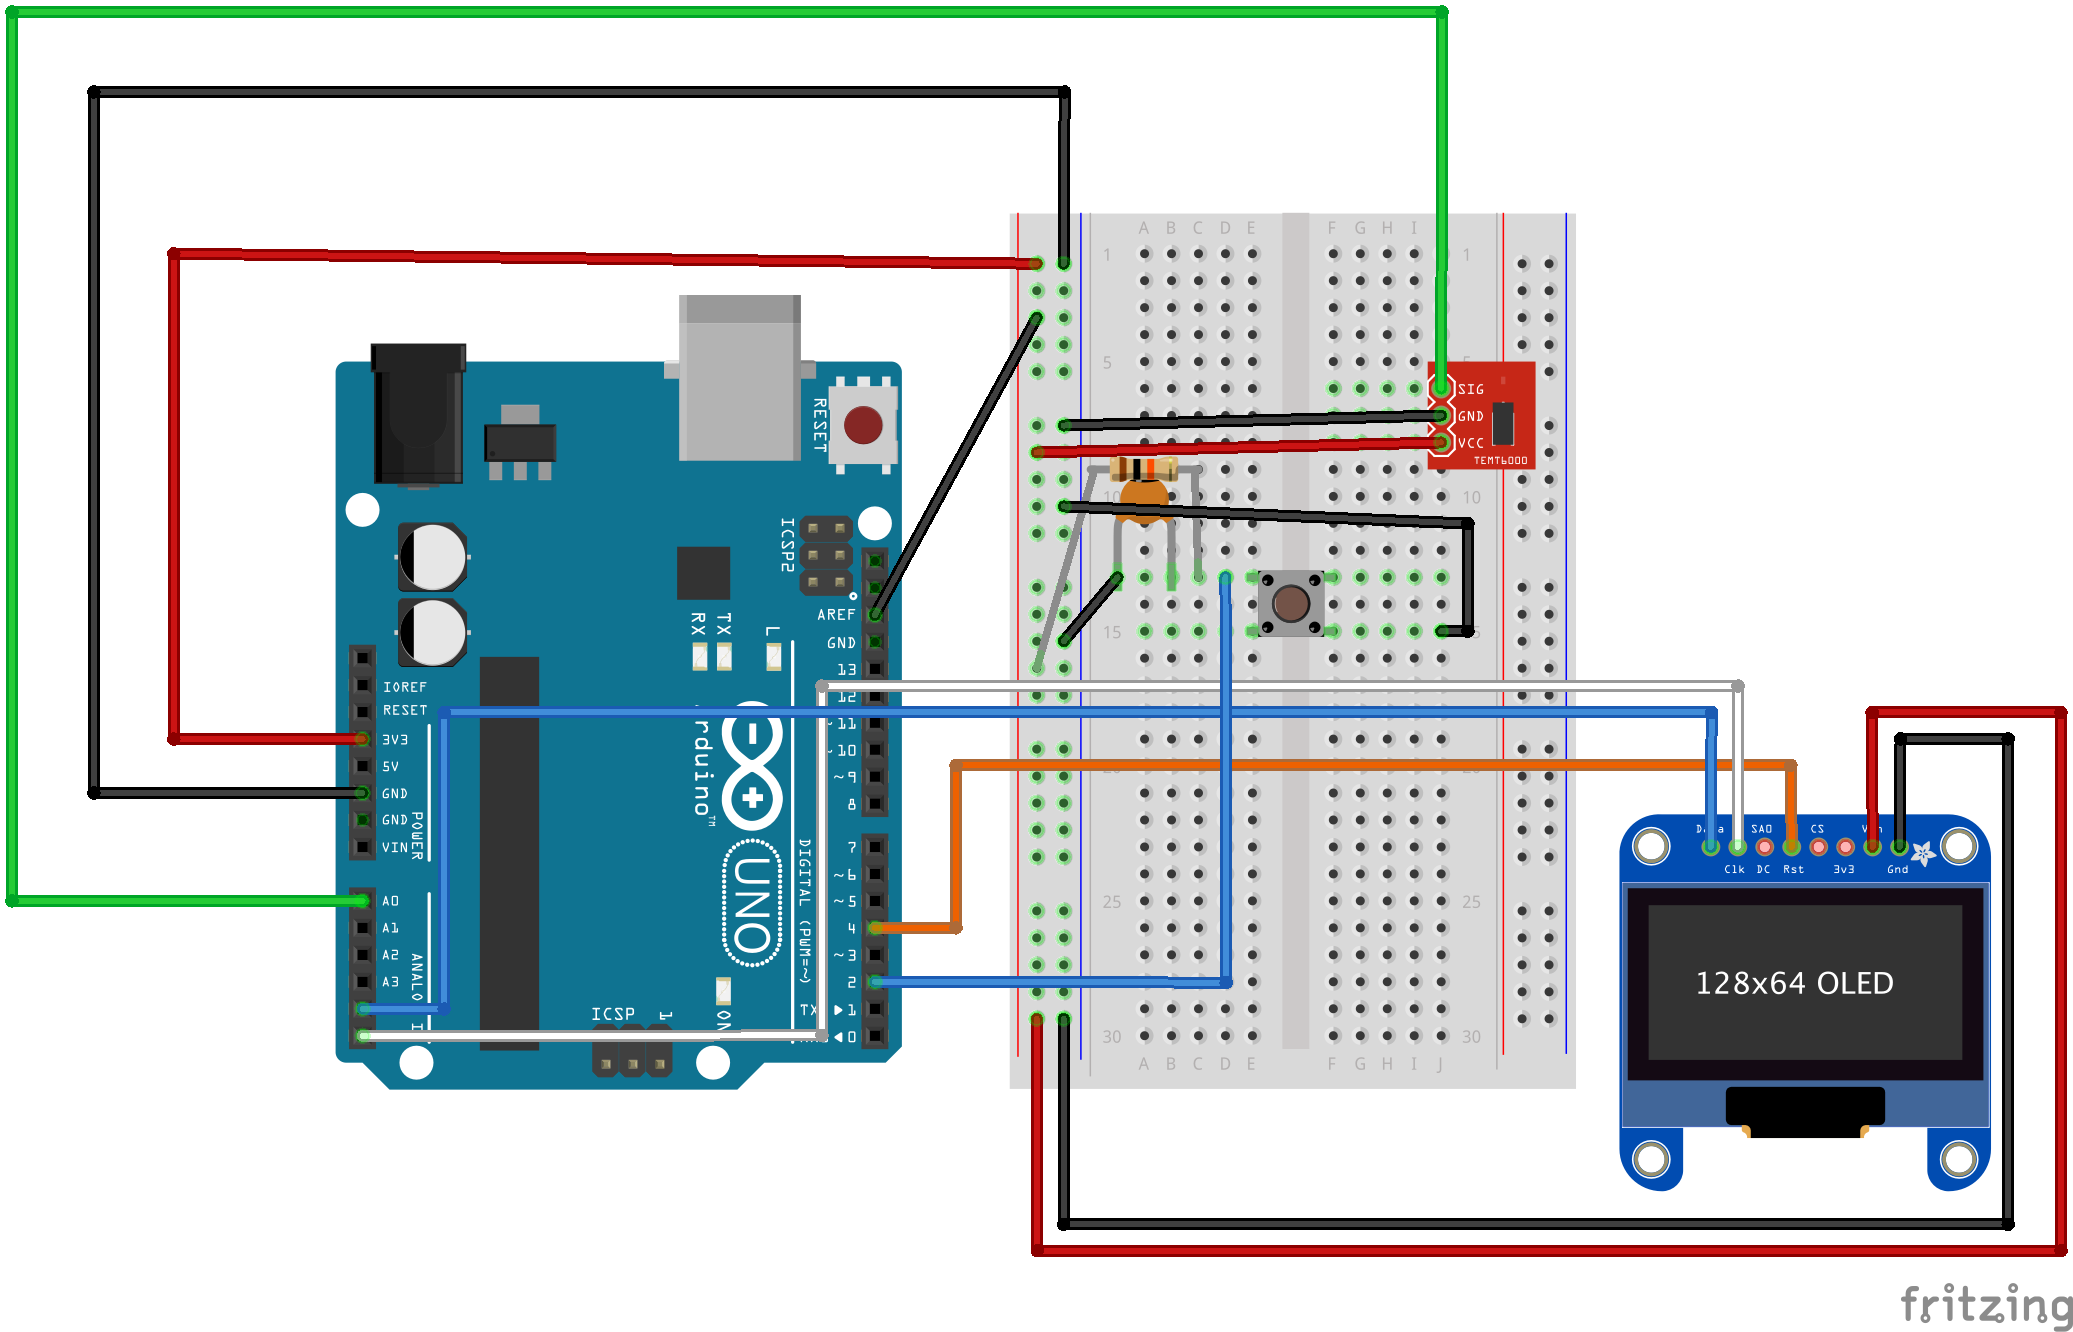
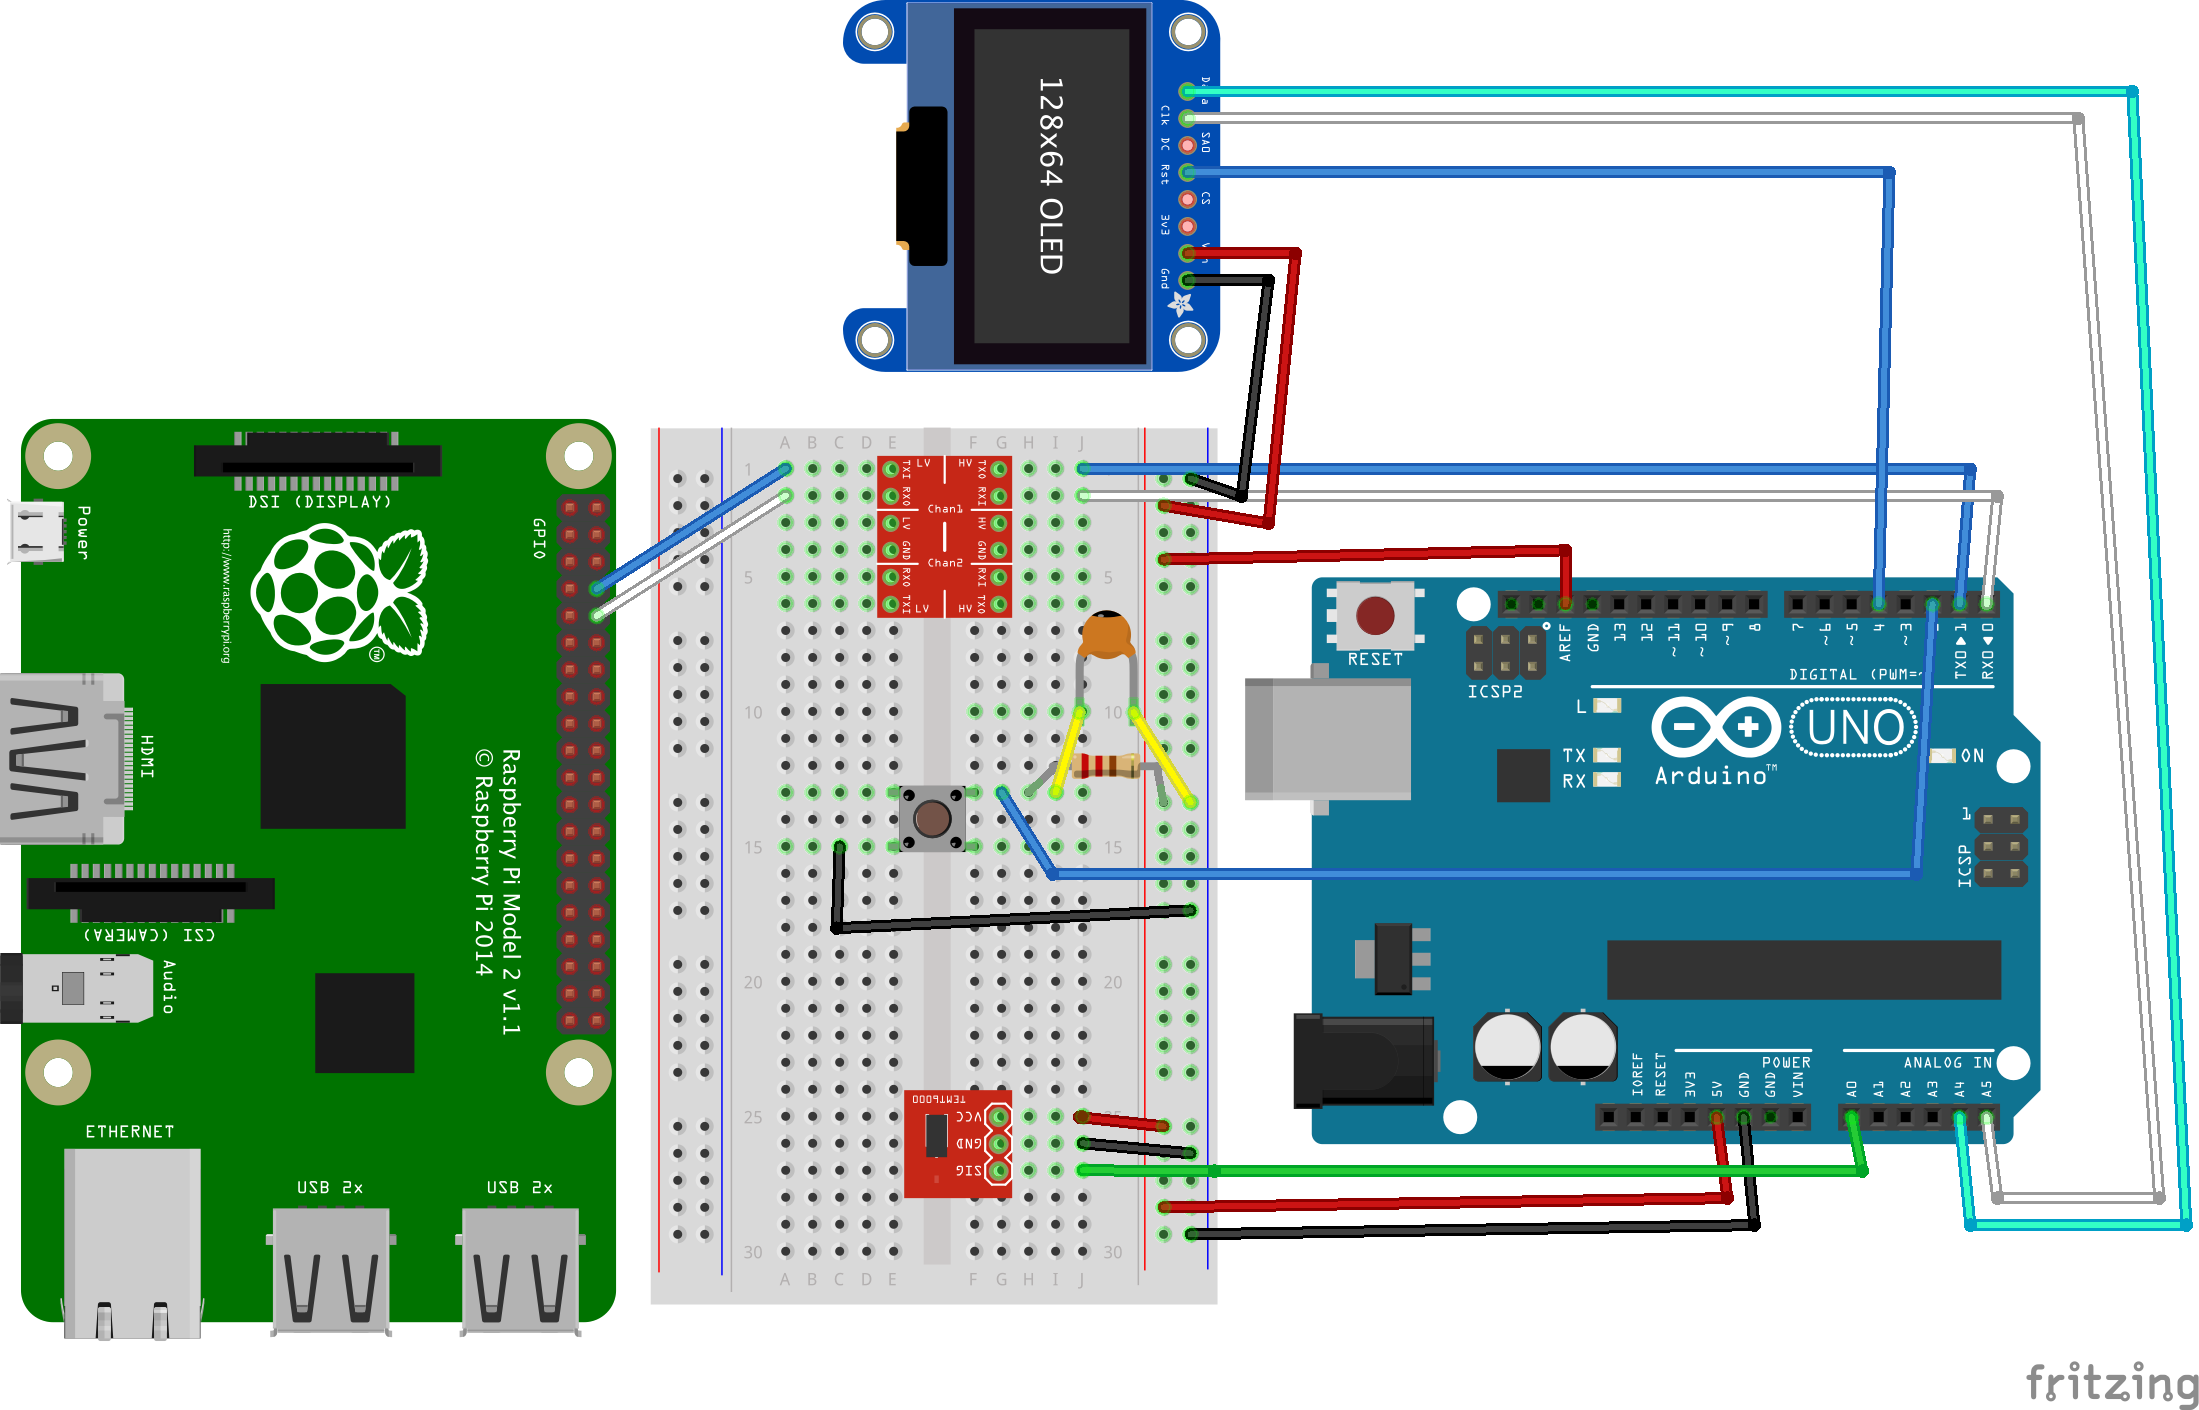
DAQ-1000 Code organization and cleanup

diff --git a/DAQ/include/configReg.h b/DAQ/include/configReg.h
@@ -12,39 +12,130 @@
 #define PRESCALER_INTERRUPT 19
 
 /////////////////////////////////////////
+// module: configADMUX
 //
+// desc: Set registers relating to ADC
+// input pin and whether to left shift
+// conversion.
+//
+// inputs: none
+//
+// outputs: none
+//
+// return: none
+/////////////////////////////////////////
 void configADMUX();
 
 /////////////////////////////////////////
+// module: configADCSRA
 //
+// desc: Configure register to turn
+// ADC on, the autotrigger, and set
+// the ADC clock prescaler.
+//
+// inputs: none
+//
+// outputs: none
+//
+// return: none
+/////////////////////////////////////////
 void configADCSRA();
 
 /////////////////////////////////////////
+// module: configADCSRB
 //
+// desc: Configure Timer1 mode.
+//
+// inputs: none
+//
+// outputs: none
+//
+// return: none
+/////////////////////////////////////////
 void configADCSRB();
 
 /////////////////////////////////////////
+// module: configTCCR1A
 //
+// desc: Has bits to set register of
+// TOP register for Timer1.
+//
+// inputs: none
+//
+// outputs: none
+//
+// return: none
+/////////////////////////////////////////
 void configTCCR1A();
 
 /////////////////////////////////////////
+// module: configTCCR1B
 //
+// desc: Has bits to set register of
+// TOP register for Timer1 and set the
+// Timer1 prescaler.
+//
+// inputs: none
+//
+// outputs: none
+//
+// return: none
+/////////////////////////////////////////
 void configTCCR1B();
 
 /////////////////////////////////////////
+// module: configICR1
 //
+// desc: Set TOP value.
+//
+// inputs: none
+//
+// outputs: none
+//
+// return: none
+/////////////////////////////////////////
 void configICR1();
 
 /////////////////////////////////////////
-///
+// module: configEICRA
+//
+// desc: Configure what kind of edge to
+// trigger an interrupt for Pin 2.
+//
+// inputs: none
+//
+// outputs: none
+//
+// return: none
+/////////////////////////////////////////
 void configEICRA();
 
 /////////////////////////////////////////
+// module: configInterrupts
 //
+// desc: Enable Timer1, ADC, and Pin 2
+// interrupts.
+//
+// inputs: none
+//
+// outputs: none
+//
+// return: none
+/////////////////////////////////////////
 void configInterrupts();
 
 /////////////////////////////////////////
+// module: setupRegisters
 //
+// desc: Function to wrap all the setup functions
+// to be called in setup.
+//
+// inputs: none
+//
+// outputs: none
+//
+// return: none
+/////////////////////////////////////////
 void setupRegisters();
 
 #endif CONFIGREG_H

diff --git a/DAQ/include/oledDisplay.h b/DAQ/include/oledDisplay.h
@@ -10,25 +10,83 @@
 
 #define OLED_RESET 4
 #define DATA_SCALE_FACTOR 4
+#define TEXT_SIZE 1
 
 /////////////////////////////////////////
+// module: resetOLED
 //
+// desc: Set's cursor for OLED and
+// clears display.
+//
+// inputs: x - x coordinate for cursor
+//         y - y cordinate for cursor
+//
+// outputs: none
+//
+// return: none
+/////////////////////////////////////////
 void resetOLED(int x, int y);
 
 /////////////////////////////////////////
+// module: setupOLED
 //
-void displaySplashScreen(int x, int y, int duration);
+// desc: Sets up OLED object for text
+// size, color, and rotation. Also
+// displays splash screen.
+//
+// inputs: x - x coordinate for cursor
+//         y - y cordinate for cursor
+//         duration - delay for splash
+//         screen.
+//
+// outputs: none
+//
+// return: none
+/////////////////////////////////////////
+void setupOLED(int x, int y, int duration);
 
 /////////////////////////////////////////
+// module: displayText
 //
-void setupOLED(int x, int y, int textSize, int duration);
+// desc: Displays a text string on OLED.
+//
+// inputs: x - x coordinate for cursor
+//         y - y cordinate for cursor
+//         duration - delay for splash
+//         screen.
+//
+// outputs:
+//
+// return:
+/////////////////////////////////////////
+void displayText(int x, int y, String text, int duration);
 
 /////////////////////////////////////////
+// module: displayData
 //
-void displayData(uint8_t data, int x, int y);
+// desc: Displays sensor data on OLED.
+//
+// inputs: x - x coordinate for cursor
+//         y - y cordinate for cursor
+//
+// outputs:
+//
+// return:
+/////////////////////////////////////////
+void displayData(int x, int y);
 
 /////////////////////////////////////////
+// module: plotData
 //
+// desc: Plots data in realtime from
+// OLED.
+//
+// inputs: none
+//
+// outputs: none
+//
+// return: none
+/////////////////////////////////////////
 void plotData();
 
 #endif OLEDDISPLAY_H

diff --git a/DAQ/src/oledDisplay.cpp b/DAQ/src/oledDisplay.cpp
@@ -15,10 +15,10 @@
 Adafruit_SSD1306 display(OLED_RESET);
 
 extern uint8_t data_byte;
+extern volatile bool pb_flag;
 
 /////////////////////////////////////////
-/// Reset OLED to clear buffer and set the
-/// cursor for the print function.
+///
 void resetOLED(int x, int y)
 {
   display.setCursor(x, y);
@@ -26,40 +26,41 @@ void resetOLED(int x, int y)
 }
 
 /////////////////////////////////////////
-/// Show splash screen on OLED.
-void displaySplashScreen(int x, int y, int duration)
+///
+void setupOLED(int x, int y, int duration)
+{
+  // NOTE: #define SSD1306_128_64 is enabled in
+  // Adafruit_SSD1306.h
+  display.begin(SSD1306_SWITCHCAPVCC, 0x3D);
+  display.setTextSize(TEXT_SIZE);
+  display.setTextColor(WHITE);
+  display.setRotation(0); // Rotates screen by 270
+
+  String text = "DAQ SYSTEM";
+  displayText(x, y, text, duration);
+}
+
+/////////////////////////////////////////
+///
+void displayText(int x, int y, String text, int duration)
 {
   resetOLED(x,y);
-  display.print("DAQ SYSTEM");
+  display.print(text);
   display.display();
   delay(duration);
 }
 
 /////////////////////////////////////////
-/// Initialize all of OLED settings in
-/// one function.
-void setupOLED(int x, int y, int textSize, int duration)
-{
-  // NOTE: #define SSD1306_128_64 is enabled in
-  // Adafruit_SSD1306.h
-  display.begin(SSD1306_SWITCHCAPVCC, 0x3D);
-  display.setTextSize(textSize);
-  display.setTextColor(WHITE);
-  display.setRotation(0); // Rotates screen by 270
-  displaySplashScreen(x, y, duration);
-}
-
-/////////////////////////////////////////
-/// Show the sensor data, set the cursor.
-void displayData(uint8_t data, int x, int y)
+///
+void displayData( int x, int y)
 {
   resetOLED(x, y);
-  display.print(data);
+  display.print(data_byte);
   display.display();
 }
 
 /////////////////////////////////////////
-/// Plot data on OLED display.
+///
 void plotData()
 {
   display.clearDisplay();

diff --git a/DAQ/include/ISR.h b/DAQ/include/ISR.h
@@ -15,28 +15,38 @@ extern volatile bool data_flag;
 extern volatile bool pb_flag;
 
 /////////////////////////////////////////
-/// Interrupt just to trigger sampling
-/// does nothing.
+// module: TIMER1TIMER1_COMPB_vect
+//
+// desc: Interrupt triggered when Timer1
+// reaches a set value. This interrupt then
+// the ADC_vect interrupt for sampling.
+///////////////////////////////////////////
 ISR(TIMER1_COMPB_vect)
 {
   // Do nothing.
 }
 
 /////////////////////////////////////////
-/// Grab sample from ADCH
+// module:ADC_vect
+//
+// desc: Triggered when TIMER1_COMPB_vect
+// is triggered. This starts the ADC the
+// the ADC result is grabbed from here.
+/////////////////////////////////////////
 ISR(ADC_vect)
 {
   // Read 8-bit conversion result from ADCH.
-  uint8_t byte0 = ADCL;
-  uint8_t byte1 = ADCH;
-
-  data_byte = byte1;
+  data_byte = ADCH;
   data_flag = true;
 }
 
 /////////////////////////////////////////
-/// Interrupt when pin 2 is on rising
-/// edge.
+// module: INT0_vect
+//
+// desc: Triggered when Pin 2 detects a
+// rising edge. Used to register button
+// pressed. 
+/////////////////////////////////////////
 ISR(INT0_vect)
 {
   pb_flag = true;

diff --git a/DAQ/src/configReg.cpp b/DAQ/src/configReg.cpp
@@ -8,7 +8,6 @@
 #include <Arduino.h>
 #include "../include/configReg.h"
 
-
 /////////////////////////////////////////
 ///
 void configADMUX()

diff --git a/README.md b/README.md
@@ -9,8 +9,9 @@ An immensely helpful reference is the Atmel ATmega328/P datasheet, found [here](
    * USB Serial Cable
    * Adafruit 128x64 OLED Display
    * Momentary Pushbutton + 10K Ohm Resistor + 0.1 uF Capacitor
-   * ~~Raspberry Pi 2~~
-   * ~~Adafruit T-Cobbler Plus~~
+   * Raspberry Pi 2
+   * Adafruit T-Cobbler Plus (Optional)
+   * Logic Level Converter
 
 
    ![alt text](images/Schematic.png)
